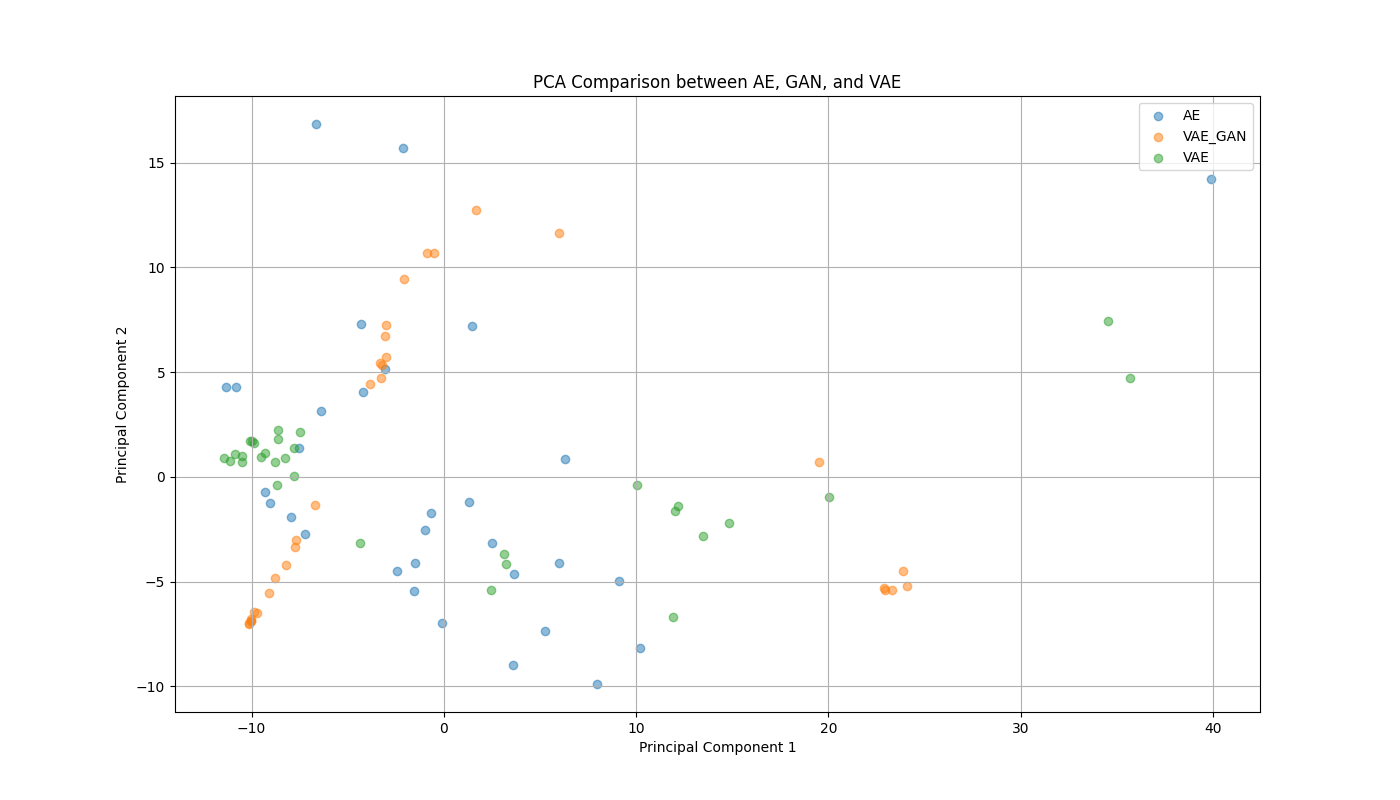
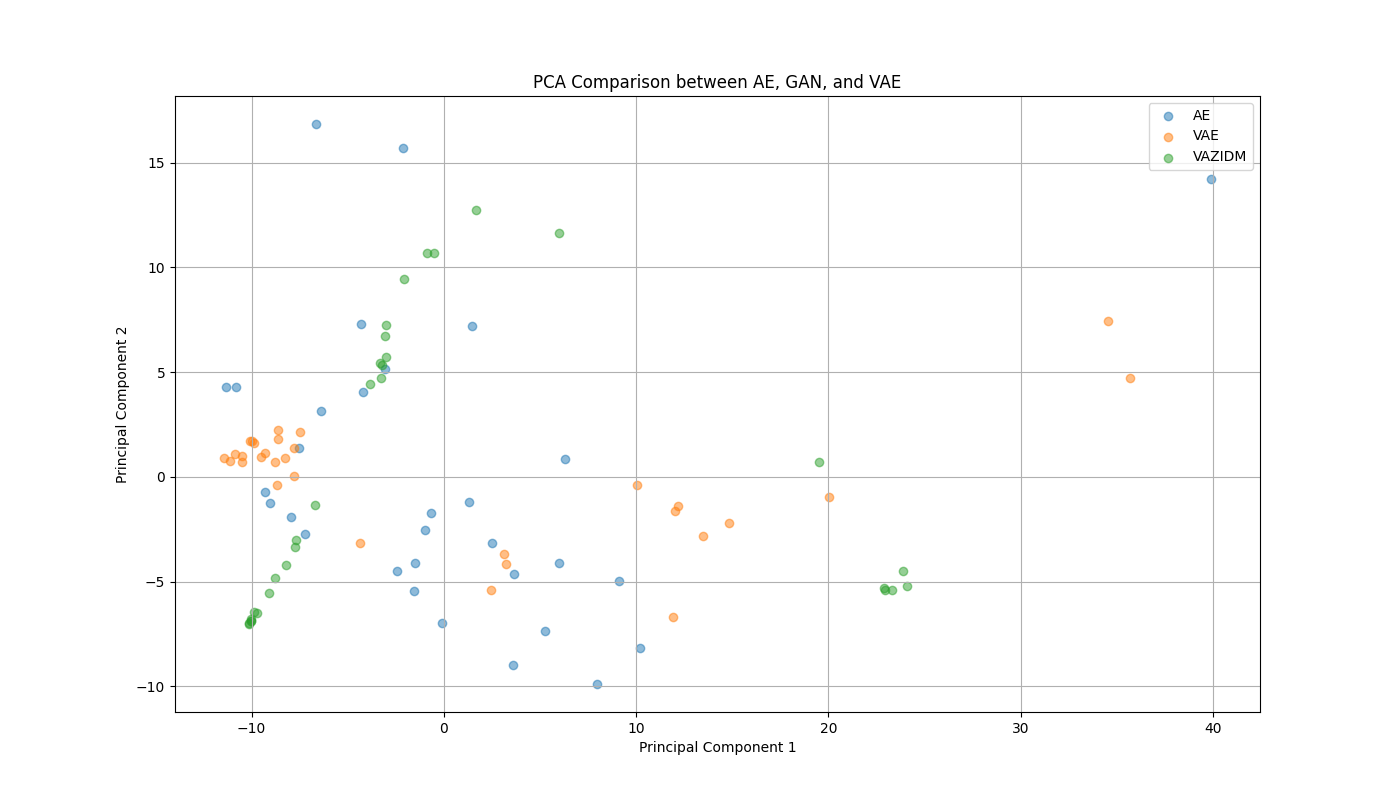
analysis commit

diff --git a/output/DAanalysis.py b/output/DAanalysis.py
@@ -4,20 +4,20 @@ import matplotlib.pyplot as plt
 from scipy.stats import mannwhitneyu
 
 # 加载数据
-ae_df = pd.read_csv('../data/PRJEB13870/mean.tsv', sep='\t')
-original_df = pd.read_csv('../data/PRJEB13870/PRJEB13870.tsv', sep='\t')
-vae_df = pd.read_csv('../data/PRJEB13870/output_values.tsv', sep='\t')
-gan_df = pd.read_csv('../result/PRJEB13870/output_values.tsv', sep='\t')
+ae_df = pd.read_csv('../data/IBD_PRISM/mean.tsv', sep='\t')
+original_df = pd.read_csv('../data/IBD_PRISM/microbiome_PRISM.tsv', sep='\t')
+vae_df = pd.read_csv('../data/IBD_PRISM/output_values.tsv', sep='\t')
+gan_df = pd.read_csv('../result/IBD_PRISM/output_values.tsv', sep='\t')
 
 # 确保数据包含相同的样本进行比较
 common_samples = list(
     set(ae_df.columns[1:]).intersection(set(original_df.columns[1:])).intersection(set(vae_df.columns[1:])))
 
 # 过滤数据以仅包含这些共同的样本
-mean_df_filtered = ae_df[['clade_name'] + common_samples]
-original_df_filtered = original_df[['clade_name'] + common_samples]
-vae_df_filtered = vae_df[['clade_name'] + common_samples]
-without_df_filtered = vae_df[['clade_name'] + common_samples]
+mean_df_filtered = ae_df[['# Feature / Sample'] + common_samples]
+original_df_filtered = original_df[['# Feature / Sample'] + common_samples]
+vae_df_filtered = vae_df[['# Feature / Sample'] + common_samples]
+without_df_filtered = vae_df[['# Feature / Sample'] + common_samples]
 
 
 # 标准化数据
@@ -38,19 +38,19 @@ results_ae = []
 results_vae = []
 results_without = []
 
-for clade in original_normalized['clade_name']:
-    ae_values = mean_normalized[mean_normalized['clade_name'] == clade].iloc[:, 1:].values.flatten()
-    original_values = original_normalized[original_normalized['clade_name'] == clade].iloc[:, 1:].values.flatten()
-    vae_values = vae_normalized[vae_normalized['clade_name'] == clade].iloc[:, 1:].values.flatten()
-    without_values = without_normalized[without_normalized['clade_name'] == clade].iloc[:, 1:].values.flatten()
+for clade in original_normalized['# Feature / Sample']:
+    ae_values = mean_normalized[mean_normalized['# Feature / Sample'] == clade].iloc[:, 1:].values.flatten()
+    original_values = original_normalized[original_normalized['# Feature / Sample'] == clade].iloc[:, 1:].values.flatten()
+    vae_values = vae_normalized[vae_normalized['# Feature / Sample'] == clade].iloc[:, 1:].values.flatten()
+    without_values = without_normalized[without_normalized['# Feature / Sample'] == clade].iloc[:, 1:].values.flatten()
 
     u_stat_ae, p_val_ae = mannwhitneyu(ae_values, original_values, alternative='two-sided')
     u_stat_vae, p_val_vae = mannwhitneyu(vae_values, original_values, alternative='two-sided')
     u_stat_without, p_val_without = mannwhitneyu(without_values, original_values, alternative='two-sided')
 
-    results_ae.append({'clade_name': clade, 'u_stat': u_stat_ae, 'p_val': p_val_ae})
-    results_vae.append({'clade_name': clade, 'u_stat': u_stat_vae, 'p_val': p_val_vae})
-    results_without.append({'clade_name': clade, 'u_stat': u_stat_without, 'p_val': p_val_without})
+    results_ae.append({'# Feature / Sample': clade, 'u_stat': u_stat_ae, 'p_val': p_val_ae})
+    results_vae.append({'# Feature / Sample': clade, 'u_stat': u_stat_vae, 'p_val': p_val_vae})
+    results_without.append({'# Feature / Sample': clade, 'u_stat': u_stat_without, 'p_val': p_val_without})
 
 # 将结果转换为DataFrame
 results_ae_df = pd.DataFrame(results_ae)
@@ -79,10 +79,10 @@ axes[1].set_ylabel('-log10(p-value)')
 
 # VAE-GAN模型火山图
 axes[2].scatter(results_vae_df['u_stat'], results_vae_df['-log10(p_val)'], color='blue', alpha=0.5)
-axes[2].set_title('VAE-GAN Model Volcano Plot')
+axes[2].set_title('VAZIDM Model Volcano Plot')
 axes[2].set_xlabel('U Statistic')
 axes[2].set_ylabel('-log10(p-value)')
 
 plt.tight_layout()
-plt.savefig('../result/PRJEB13870/volcano_plot.png')
+plt.savefig('../result/IBD_PRISM/volcano_plot.png')
 plt.show()

diff --git a/output/MSEbox.py b/output/MSEbox.py
@@ -1,10 +1,10 @@
-# Set headers and convert MSE to numeric values for plotting
 import pandas as pd
 from matplotlib import pyplot as plt
 
-ae_mse_data = pd.read_csv('../result/PRJEB13870/MSE/ae_values.tsv', sep='\t', header=0)
-gan_mse_data = pd.read_csv('../result/PRJEB13870/MSE/gan_values.tsv', sep='\t', header=0)
-vae_mse_data = pd.read_csv('../result/PRJEB13870/MSE/vae_values.tsv', sep='\t', header=0)
+# Load data
+ae_mse_data = pd.read_csv('../result/PRJDB4871/MSE/ae_values.tsv', sep='\t', header=0)
+gan_mse_data = pd.read_csv('../result/PRJDB4871/MSE/gan_values.tsv', sep='\t', header=0)
+vae_mse_data = pd.read_csv('../result/PRJDB4871/MSE/vae_values.tsv', sep='\t', header=0)
 
 # Convert MSE values from string to float
 ae_mse_data['MSE'] = pd.to_numeric(ae_mse_data['MSE'])
@@ -13,7 +13,14 @@ vae_mse_data['MSE'] = pd.to_numeric(vae_mse_data['MSE'])
 
 # Create a boxplot to compare the MSE values of the three models
 plt.figure(figsize=(10, 6))
-plt.boxplot([ae_mse_data['MSE'], gan_mse_data['MSE'], vae_mse_data['MSE']], labels=['AE', 'VAE_GAN', 'VAE'])
+colors = ['pink', '#f8c666', '#6fb4f9']  # Colors for each box
+box = plt.boxplot([ae_mse_data['MSE'], vae_mse_data['MSE'], gan_mse_data['MSE']],
+                  labels=['AE', 'VAE', 'VAZIDM'], patch_artist=True)
+
+# Set properties for each box using different colors
+for patch, color in zip(box['boxes'], colors):
+    patch.set(facecolor=color)
+
 plt.title('Comparison of MSE Across Models')
 plt.ylabel('MSE')
 plt.grid(True)

diff --git a/output/mseVS.py b/output/mseVS.py
@@ -4,9 +4,9 @@ from matplotlib import pyplot as plt
 
 # Since the datasets appear to contain precomputed MSE values for samples, we can directly plot these.
 # Load the data if not already loaded correctly
-ae_data_path = '../result/PRJEB13870/MSE/ae_values.tsv'
-gan_data_path = '../result/PRJEB13870/MSE/gan_values.tsv'
-vae_data_path = '../result/PRJEB13870/MSE/vae_values.tsv'
+ae_data_path = '../result/PRJDB4871/MSE/ae_values.tsv'
+gan_data_path = '../result/PRJDB4871/MSE/gan_values.tsv'
+vae_data_path = '../result/PRJDB4871/MSE/vae_values.tsv'
 ae_mse_data = pd.read_csv(ae_data_path, sep='\t')
 gan_mse_data = pd.read_csv(gan_data_path, sep='\t')
 vae_mse_data = pd.read_csv(vae_data_path, sep='\t')
@@ -22,7 +22,7 @@ plt.figure(figsize=(12, 8))
 
 plt.bar(mse_comparison['Sample'], mse_comparison['MSE_AE'], color='#f5a129', label='AE', alpha=0.6)
 plt.bar(mse_comparison['Sample'], mse_comparison['MSE_VAE'], color='#82ef8b', label='VAE', alpha=0.6)
-plt.bar(mse_comparison['Sample'], mse_comparison['MSE_GAN'], color='#82d4ef', label='VAE_GAN', alpha=0.6)
+plt.bar(mse_comparison['Sample'], mse_comparison['MSE_GAN'], color='#82d4ef', label='VAZIDM', alpha=0.6)
 
 plt.xlabel('Sample')
 plt.ylabel('MSE')

diff --git a/output/pcaVs.py b/output/pcaVs.py
@@ -2,9 +2,9 @@ import pandas as pd
 import matplotlib.pyplot as plt
 
 # 载入数据
-ae_pca_path = '../result/IBD_PRISM/PCA/ae_pca_values.tsv'
-gan_pca_path = '../result/IBD_PRISM/PCA/gan_pca_values.tsv'
-vae_pca_path = '../result/IBD_PRISM/PCA/vae_pca_values.tsv'
+ae_pca_path = '../result/PRJEB13870/PCA/ae_pca_values.tsv'
+gan_pca_path = '../result/PRJEB13870/PCA/gan_pca_values.tsv'
+vae_pca_path = '../result/PRJEB13870/PCA/vae_pca_values.tsv'
 
 ae_pca_data = pd.read_csv(ae_pca_path, sep='\t')
 gan_pca_data = pd.read_csv(gan_pca_path, sep='\t')
@@ -15,8 +15,8 @@ plt.figure(figsize=(14, 8))
 
 # 为每个数据集绘制散点图，使用不同颜色
 plt.scatter(ae_pca_data['Principal Component 1'], ae_pca_data['Principal Component 2'], alpha=0.5, label='AE')
-plt.scatter(gan_pca_data['Principal Component 1'], gan_pca_data['Principal Component 2'], alpha=0.5, label='VAE_GAN')
 plt.scatter(vae_pca_data['Principal Component 1'], vae_pca_data['Principal Component 2'], alpha=0.5, label='VAE')
+plt.scatter(gan_pca_data['Principal Component 1'], gan_pca_data['Principal Component 2'], alpha=0.5, label='VAZIDM')
 
 # 添加图表标签和标题
 plt.title('PCA Comparison between AE, GAN, and VAE')
